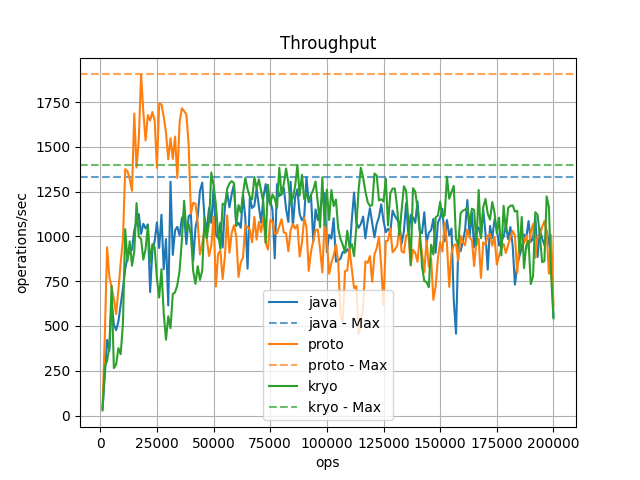
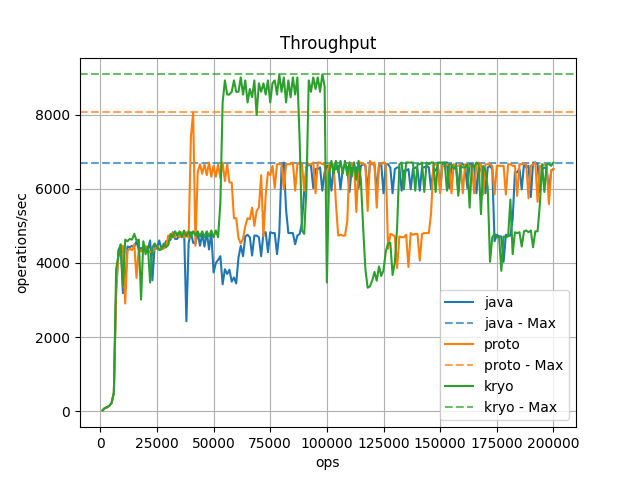
Update benchmark plots

diff --git a/analysis/plot_microbenchmarks.py b/analysis/plot_microbenchmarks.py
@@ -23,7 +23,7 @@ def load_log_files(log_dir: str) -> List[LogResult]:
         result: LogResult = {
             "serializer": dir.name,
             "server_logs": filter_server_logs(log_files),
-            "client_log": [p for p in log_files if p.name == "client.log"][0],
+            "client_log": [p for p in log_files if p.name.startswith("client")][0],
         }
 
         results.append(result)
@@ -32,11 +32,11 @@ def load_log_files(log_dir: str) -> List[LogResult]:
 
 def filter_server_logs(log_files: List[Path]):
     logs = [{
-                "id": int(p.name.split('.')[0].lstrip('p')),
+                "id": int(p.name.split('.')[0].removeprefix('server_200_p')),
                 "path": p,
                 "content": p.read_text(),
                 "data_blocks": process_server_log(p.read_text()),
-            } for p in log_files if p.name != "client.log"]
+            } for p in log_files if p.name.startswith("server_")]
     return sorted(logs, key=lambda x: x["id"])
 
 
